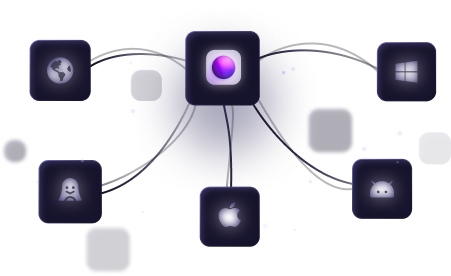
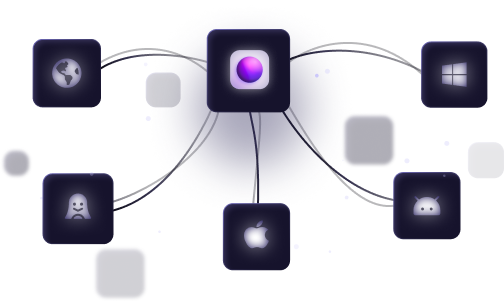
increase size

diff --git a/apps/landing/src/components/BentoBoxes.tsx b/apps/landing/src/components/BentoBoxes.tsx
@@ -44,7 +44,7 @@ const BentoBoxes = () => {
 		 md:mt-[220px] lg:grid lg:grid-cols-6"
 		>
 			<BentoBox colSpan={4} className="p-6" bgUrl="images/bento/encrypt-bg.webp">
-				<div className="absolute top-0 right-0 z-20 w-full h-full bento-radial-gradient-fade" />
+				<div className="bento-radial-gradient-fade absolute right-0 top-0 z-20 h-full w-full" />
 				<>
 					<div className="relative z-20">
 						<Heading>Encryption</Heading>
@@ -73,7 +73,7 @@ const BentoBoxes = () => {
 						height={230}
 						src="/images/bento/tags.webp"
 					/>
-					<div className="absolute top-0 right-0 z-20 w-full h-full bento-radial-gradient-fade" />
+					<div className="bento-radial-gradient-fade absolute right-0 top-0 z-20 h-full w-full" />
 
 					<div className="relative z-[40] mt-5">
 						<Heading>Powerful tags</Heading>
@@ -92,7 +92,7 @@ const BentoBoxes = () => {
 							Easily find your files and folders through our search
 						</Text>
 					</div>
-					<div className="absolute top-0 right-0 z-20 w-full h-full bento-radial-gradient-fade" />
+					<div className="bento-radial-gradient-fade absolute right-0 top-0 z-20 h-full w-full" />
 					<Image
 						className="mx-auto brightness-110"
 						alt="Search"
@@ -105,7 +105,7 @@ const BentoBoxes = () => {
 			</BentoBox>
 			<BentoBox colSpan={2} className="p-6">
 				<>
-					<div className="absolute top-0 right-0 z-20 w-full h-full bento-radial-gradient-fade" />
+					<div className="bento-radial-gradient-fade absolute right-0 top-0 z-20 h-full w-full" />
 					<Image
 						className="mx-auto brightness-125"
 						alt="Library"
@@ -129,7 +129,7 @@ const BentoBoxes = () => {
 							Send files to other devices quickly and easily
 						</Text>
 					</div>
-					<div className="absolute top-0 right-0 z-20 w-full h-full bento-radial-gradient-fade" />
+					<div className="bento-radial-gradient-fade absolute right-0 top-0 z-20 h-full w-full" />
 					<Image
 						className="mx-auto brightness-125"
 						alt="Spacedrop"
@@ -178,9 +178,9 @@ const BentoBoxes = () => {
 				<>
 					<div className="flex h-[80%] w-auto items-center justify-center">
 						<Image
-							className="relative z-30 mx-auto bottom-3"
+							className="relative bottom-2 z-30 mx-auto"
 							alt="crossplatform"
-							width={440}
+							width={500}
 							height={100}
 							src="/images/bento/platforms.webp"
 							quality={100}
@@ -197,7 +197,7 @@ const BentoBoxes = () => {
 							everywhere.
 						</Text>
 					</div>
-					<div className="absolute top-0 right-0 z-20 w-full h-full bento-radial-gradient-fade" />
+					<div className="bento-radial-gradient-fade absolute right-0 top-0 z-20 h-full w-full" />
 				</>
 			</BentoBox>
 		</MagicContainer>

diff --git a/apps/landing/src/pages/index.tsx b/apps/landing/src/pages/index.tsx
@@ -172,12 +172,12 @@ export default function HomePage() {
 					</div>
 					<div>
 						<div
-							className="xl2:relative z-30 mt-[50px] flex h-[255px] w-full px-6
+							className="xl2:relative z-30 flex h-[255px] w-full px-6
 						 sm:h-[428px] md:mt-[75px] md:h-[428px] lg:h-[628px]"
 						>
 							<Image
 								loading="eager"
-								className="absolute-horizontal-center top-[410px] w-[400px] xs:top-[360px] md:top-[130px] md:w-auto"
+								className="absolute-horizontal-center top-[380px] w-[400px] xs:top-[360px] md:top-[130px] md:w-auto"
 								width={1200}
 								height={626}
 								alt="l"
